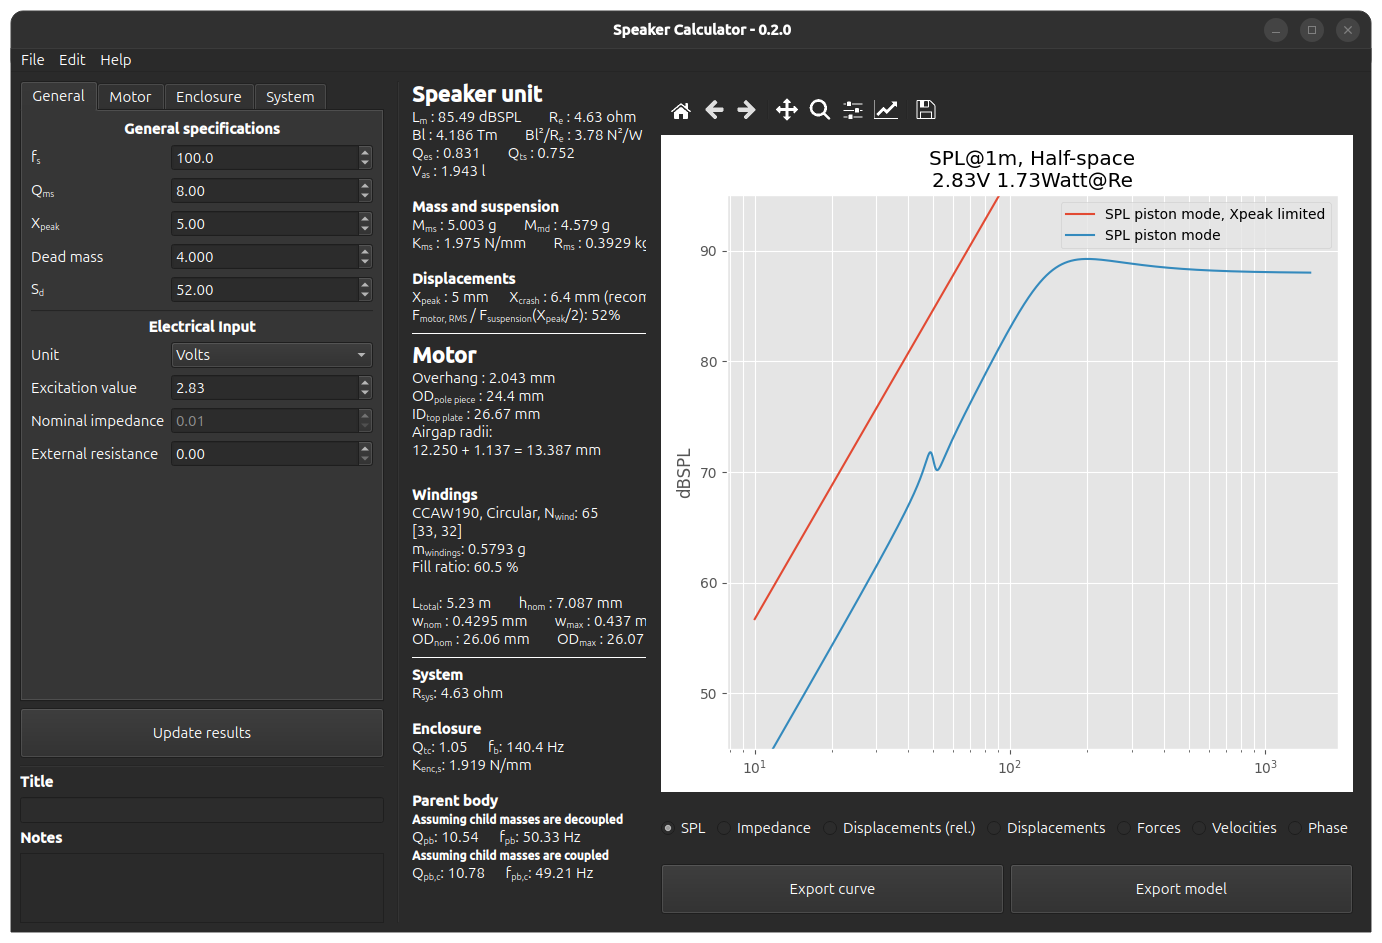
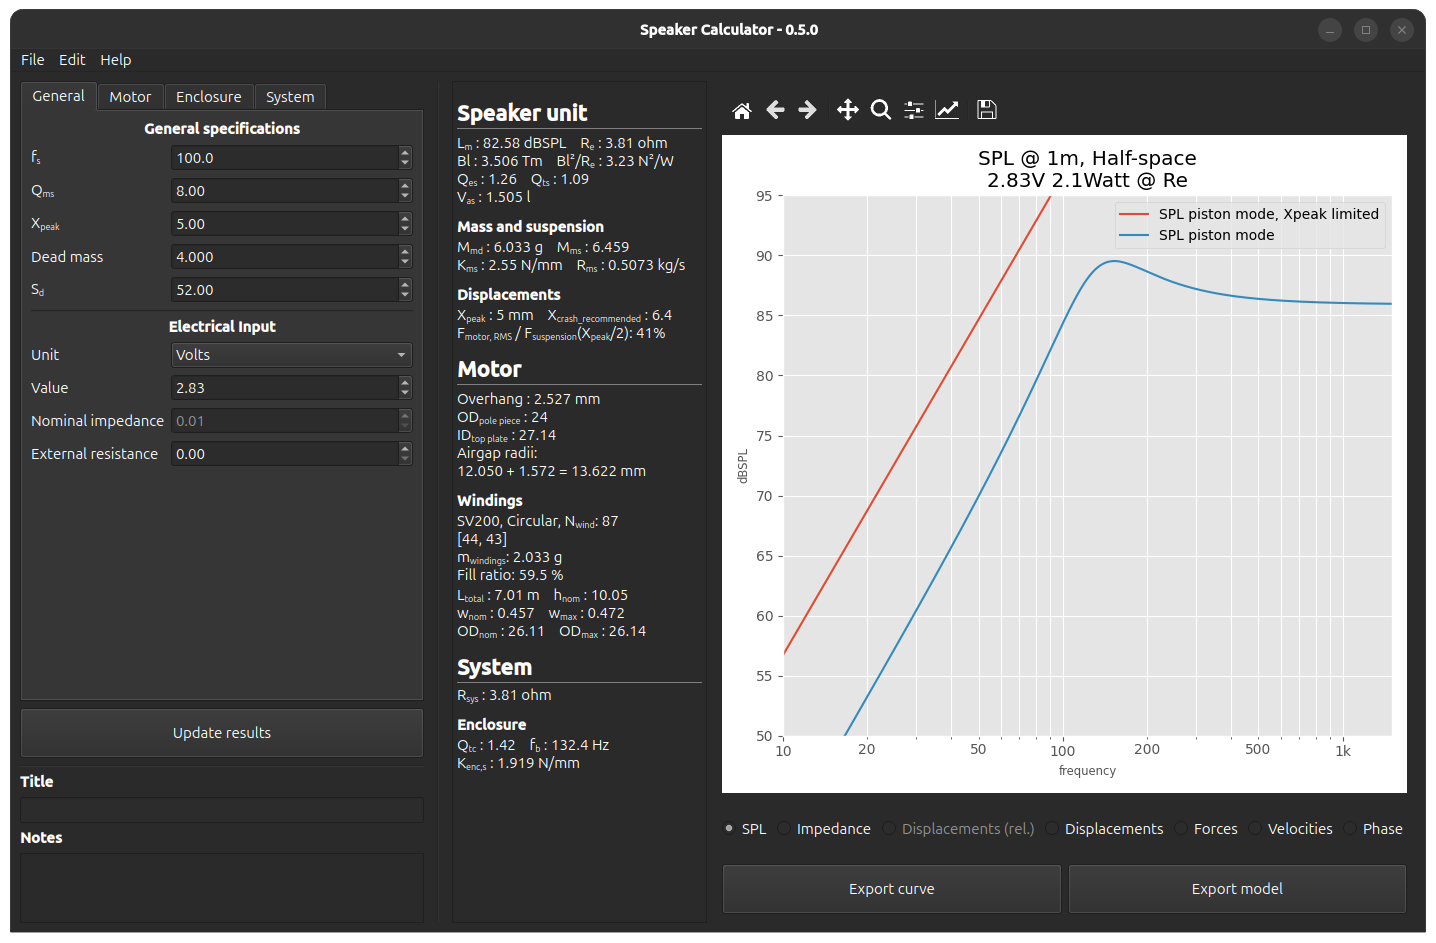
add coil inductance to the gui and the sscf files

diff --git a/utils/version_convert.py b/utils/version_convert.py
@@ -171,6 +171,20 @@ def convert_v04_to_v05(state: dict) -> dict:
     return state
 
 
+def convert_v05_to_v06(state: dict) -> dict:
+    """Upgrade a v0.5 JSON state dict to the v0.6 schema.
+
+    v0.6 added the voice coil inductance 'Le' to the general specifications.
+    Older files predate this input, so the key is simply filled with its default
+    of 0 (SI units, i.e. 0 H).
+
+    Only missing keys are added, so this is idempotent -- safe to run on a file
+    that already carries the v0.6 keys.
+    """
+    state.setdefault("Le", 0.0)
+    return state
+
+
 def convert_any(file: Path) -> dict:
     """Load a session file of any past format and return a current-schema state dict."""
     version = detect_version(file)
@@ -190,6 +204,10 @@ def convert_any(file: Path) -> dict:
     # Bring every pre-0.5 format up to the current (v0.5) schema.
     if version in ("0.1", "0.2", "0.3", "0.4"):
         state = convert_v04_to_v05(state)
+
+    # Bring every pre-0.6 format up to the current (v0.6) schema.
+    if version in ("0.1", "0.2", "0.3", "0.4", "0.5"):
+        state = convert_v05_to_v06(state)
 
     return state
             

diff --git a/gui/input_section_tab_widget.py b/gui/input_section_tab_widget.py
@@ -105,6 +105,16 @@ class InputSectionTabWidget(qtw.QTabWidget):
                      description="S<sub>d</sub>"
                      )
 
+        form.add_row(pwi.FloatSpinBox("Le",
+                                      "Voice coil inductance."
+                                      "\nUnit is mH.",
+                                      decimals=3,
+                                      coeff_for_SI=1e-3,
+                                      min_max=(0, None),
+                                      ),
+                     description="L<sub>e</sub>",
+                     )
+
         # ---- Electrical input
         form.add_row(pwi.SunkenLine())
 

diff --git a/config/app_config.py b/config/app_config.py
@@ -4,7 +4,7 @@ from pathlib import Path
 from generictools.settings import SettingsManager
 
 APP_DEFINITIONS = {"app_name": "Speaker Calculator",
-                   "version": "0.5.0",
+                   "version": "0.6.0",
                    "description": "Loudspeaker design and calculations",
                    "copyright": "Copyright (C) 2026 Kerem Basaran",
                    "icon_path": "images/logo2025.ico",  # relative posix path

diff --git a/README.md b/README.md
@@ -2,12 +2,19 @@
 Lumped element calculation tool for loudspeaker design, made using Qt for Python.
 
 ## Features
-* Modelling of loudspeaker response in free-air and closed box.
-  * SPL, electrical impedance, displacements, net forces
+* Modelling of loudspeaker response in,
+  * Free-air
+  * Closed box
+  * Passive radiator
+    * Define by PR mass and frequency ratio h
+  * Bass-reflex
+    * Define by port diameter and frequency ratio h
+* SPL, electrical impedance, displacements, net forces, velocities
 * Automatic calculation of most appropriate coil winding for given user parameters.
   * Wire properties are read from user editable "wire_table.ods".
   * Possible to calculate for different types of wire section (round, flat, etc.)
-* Includes a second degree of freedom to observe the effects on parent structure.
+* Includes an additional degree of freedom to observe a mobile parent structure.
+  * Takes into consideration also the resonator and it's inertia, based on it's mounting direction.
 * Possible to manipulate graph settings and export curves.
 * Calculation of magnet system mechanical clearances.
 * Save/load of state.
@@ -16,16 +23,16 @@ Lumped element calculation tool for loudspeaker design, made using Qt for Python
 * Nonlinearities in the system
 * Calculation of magnetic flux
 * Calculation of mass of speaker components (with the exception of the windings)
-* Electrical inductance
-* Change of acoustical impedance at higher frequencies
+* Electrical inductance and modal behaviour
 
 ## Screenshots
 
 ![Image](./images/SC1.png)
 ![Image](./images/SC2.png)
+![Image](./images/SC3.png)
 
 ## Installation
-### Windows only
+### Windows
 Go to releases page to download the **.msi** installer. Run the installer and follow the steps in wizard. This will also associate the file extension **.scf** to this application.
 
 ### Any Python environment
@@ -46,9 +53,6 @@ Using Python 3.12.*,
 The application uses a linear model with 3 degrees of freedom to do the calculations. To see how the model is built, see function `_build_symbolic_ss_model` in `electracoustical.py`.
 
 ![Image](./images/system_model.webp)
-
-> [!IMPORTANT]
-> The third degree of freedom which represents the vented port or passive radiator is not included in this version.
 
 ### Coil windings
 The application will give you coil winding options based on the winding height and the coil resistance you input as requirement. To be able to do this, a separate table that has information on different wire types needs to be provided by the user. This table is stored in `wire_table.ods` which is located in subfolder `data` in the installation folder.
@@ -71,6 +75,18 @@ This file contains *Sheet1* which contains the following columns for each wire t
 
 > [!WARNING]
 > The application is shipped with an incomplete wire table convenient for testing. User needs to change this to an accurate and complete wire table to be able to get good results. The top three rows of the spreadsheet contain title rows for import and they should not be modified.
+
+#### Recommended sources for coil wire information, curated by Claude.ai:
+- [IEC 60317-0-1 – GlobalSpec](https://standards.globalspec.com/std/13416161/iec-60317-0-1)
+- [IEC 60317-0-2:2020 (sample PDF)](https://cdn.standards.iteh.ai/samples/102360/47d5095c2c794c1098f568b622bb0302/IEC-60317-0-2-2020.pdf)
+- [IEC 60317-13 – GlobalSpec (class 200)](https://standards.globalspec.com/std/1274534/DS/EN%2060317-13)
+- [IEC 60317-36 (self-bonding polyesterimide)](https://www.amazon.com/IEC-60317-36-Ed-Specifications-polyesterimide/dp/2832292070)
+- [ANSI/NEMA MW 1000-2015 (preview)](https://webstore.ansi.org/preview-pages/NEMA/preview_ANSI+NEMA+MW+1000-2015.pdf)
+- [Elektrisola - Selfbonding enamelled wire (SB-wire)](https://www.elektrisola.com/en/Selfbonding-Wire/Info)
+- [Elektrisola - Wire technical datasheets](https://www.elektrisola.com/en/brochure)
+- [MWS Wire – Bondable Magnet Wire](https://mwswire.com/bondable-magnet-wire/)
+- [MWS Wire – Magnet Wire Calculator (NEMA MW 1000 based)](https://mwswire.com/magnet-wire-calculator/)
+- [Copper-clad aluminium wire – Wikipedia](https://en.wikipedia.org/wiki/Copper-clad_aluminium_wire)
 
 ### Basic wire dimensions
 ![Image](./images/coil_winding_1.webp)
